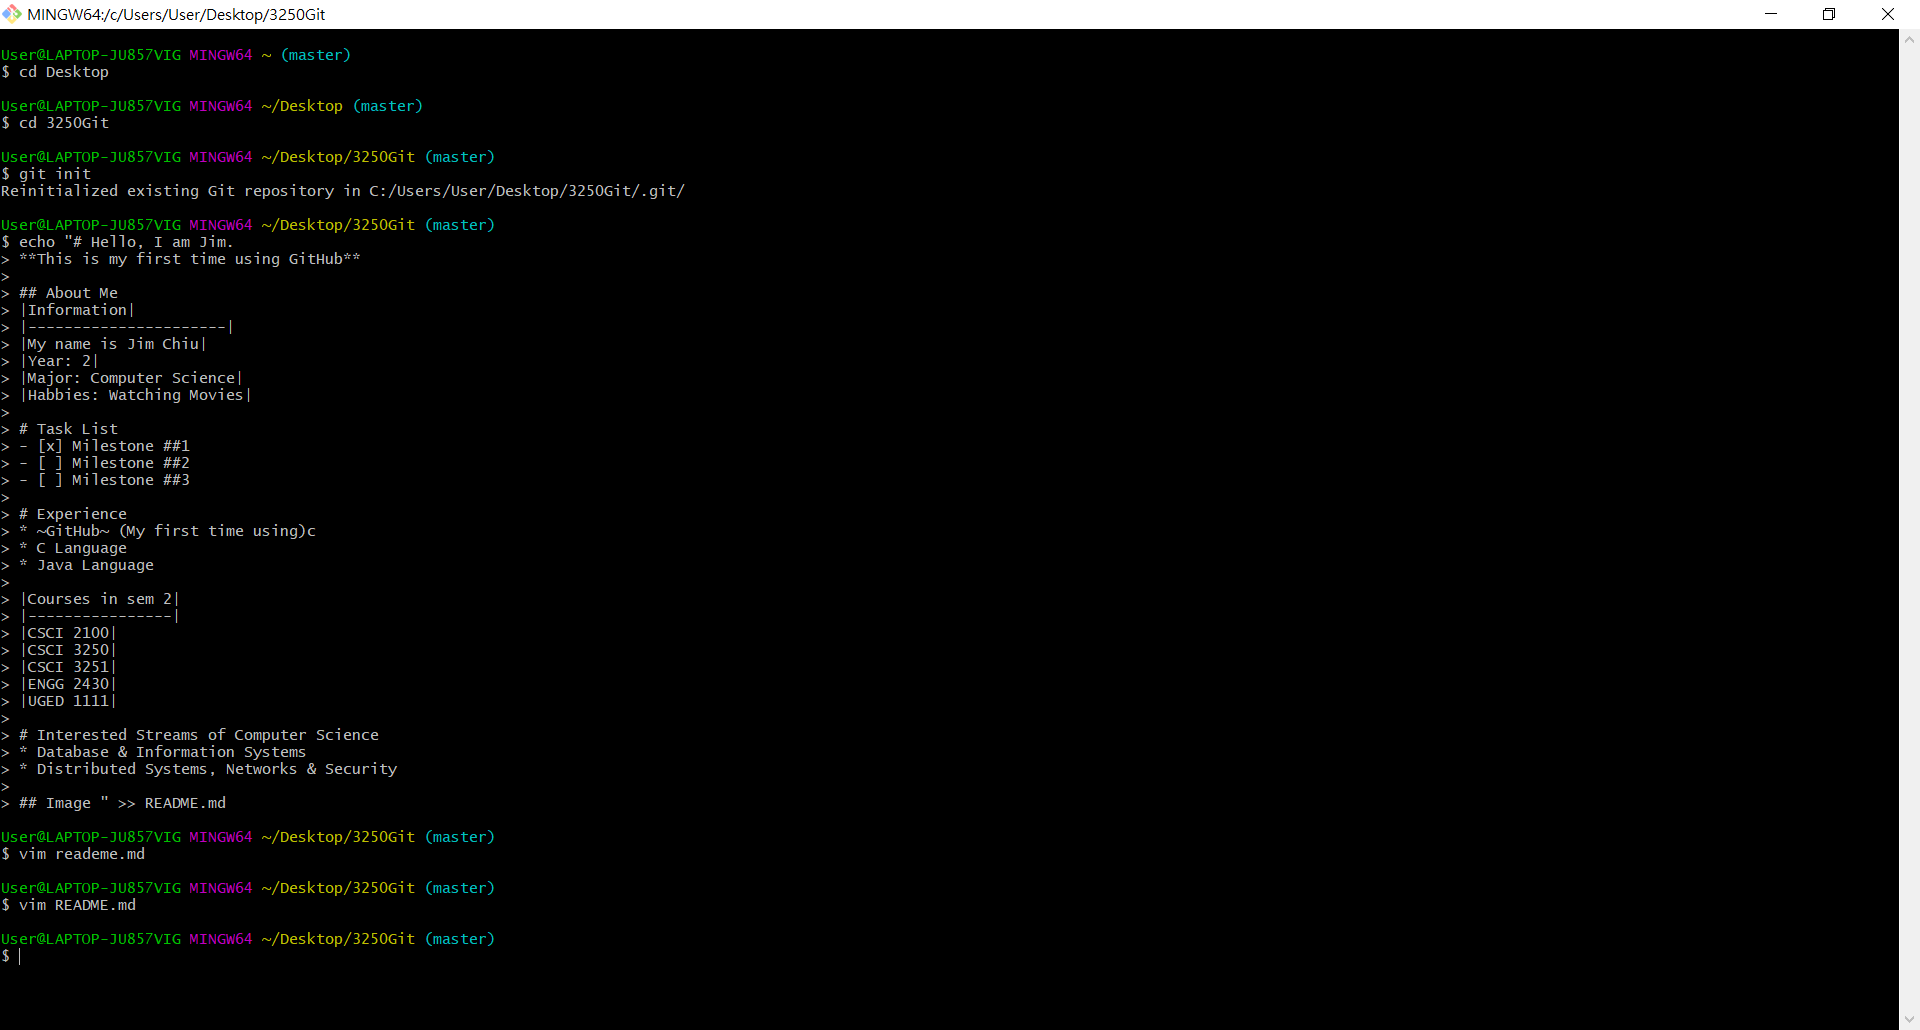
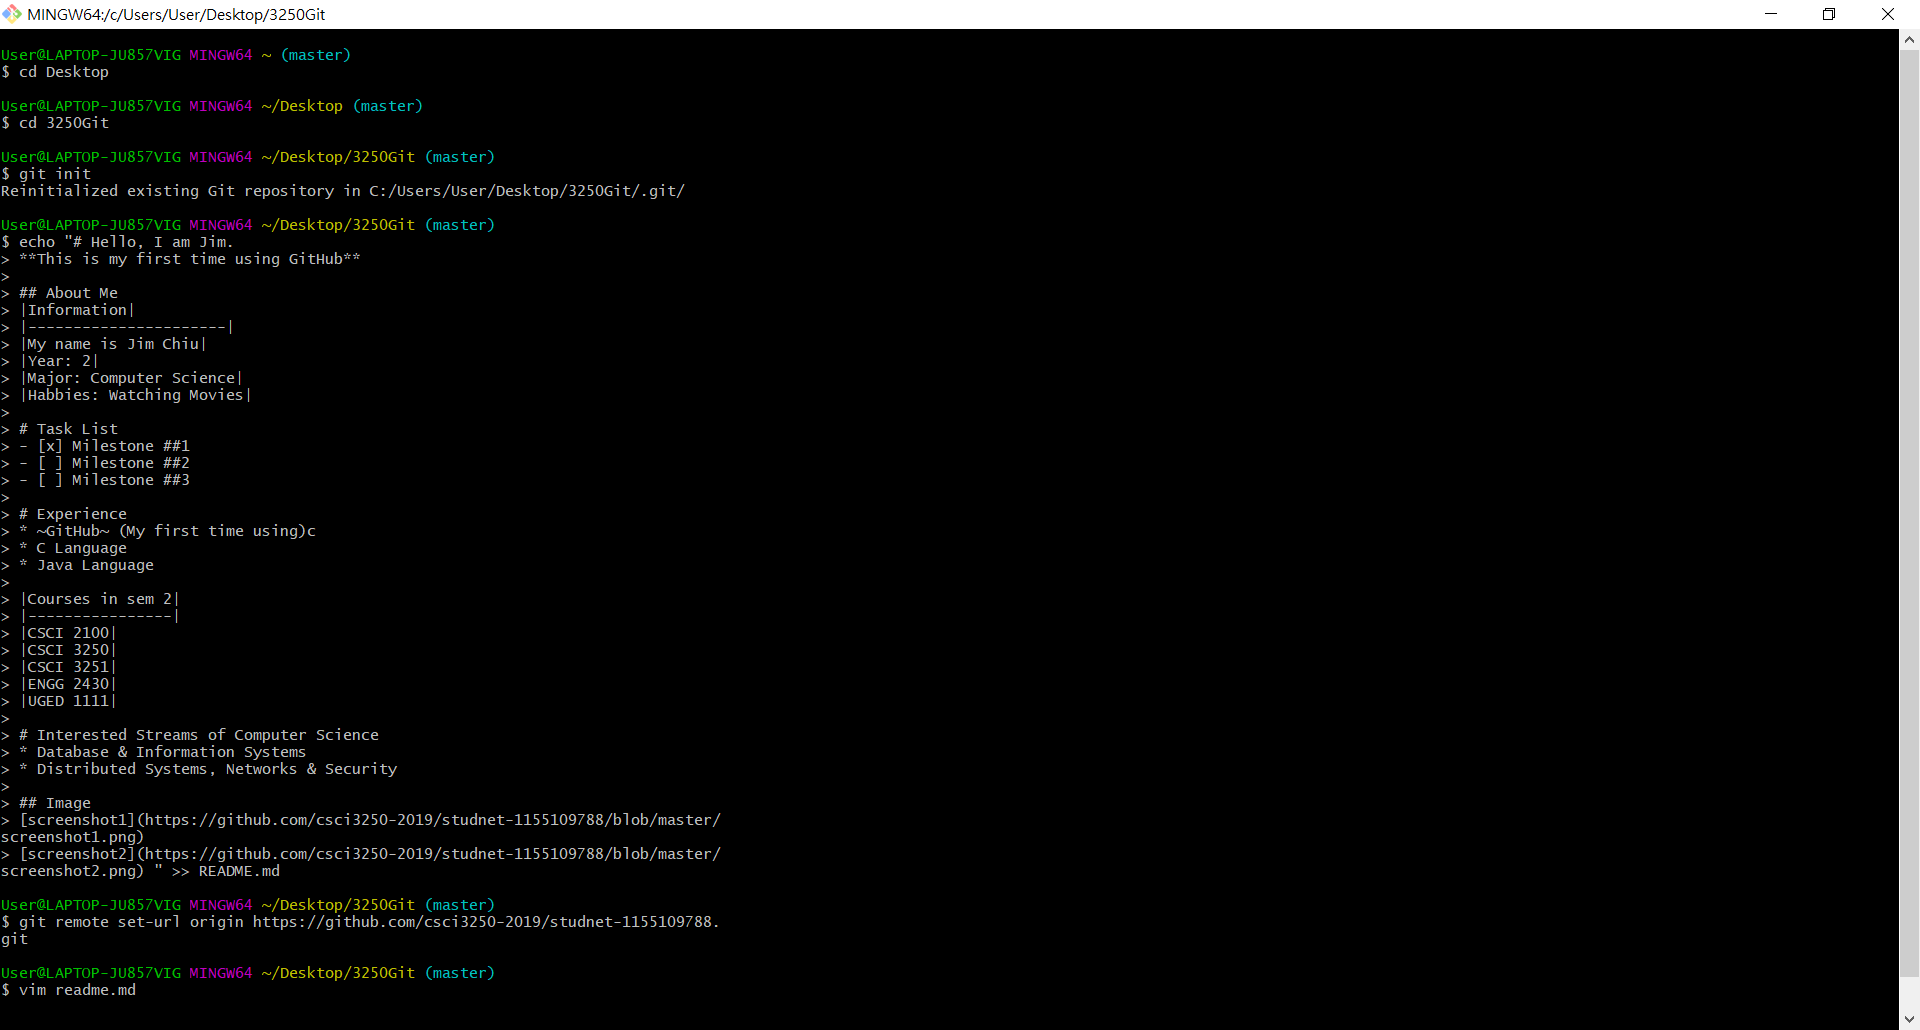
first commit

Changed region(s): [[0.0, 0.7767, 0.375, 0.9631], [0.9688, 0.0311, 1.0, 0.9631]]

diff --git a/README.md b/README.md
@@ -1,0 +1,34 @@
+# Hello, I am Jim.
+**This is my first time using GitHub**
+
+## About Me
+|Information|
+|----------------------|
+|My name is Jim Chiu|
+|Year: 2|
+|Major: Computer Science|
+|Habbies: Watching Movies|
+
+# Task List
+- [x] Milestone ##1
+- [ ] Milestone ##2
+- [ ] Milestone ##3
+
+# Experience
+* ~GitHub~ (My first time using)c
+* C Language
+* Java Language
+
+|Courses in sem 2|
+|----------------|
+|CSCI 2100|
+|CSCI 3250|
+|CSCI 3251|
+|ENGG 2430|
+|UGED 1111|
+
+# Interested Streams of Computer Science
+* Database & Information Systems
+* Distributed Systems, Networks & Security
+
+## Image 
